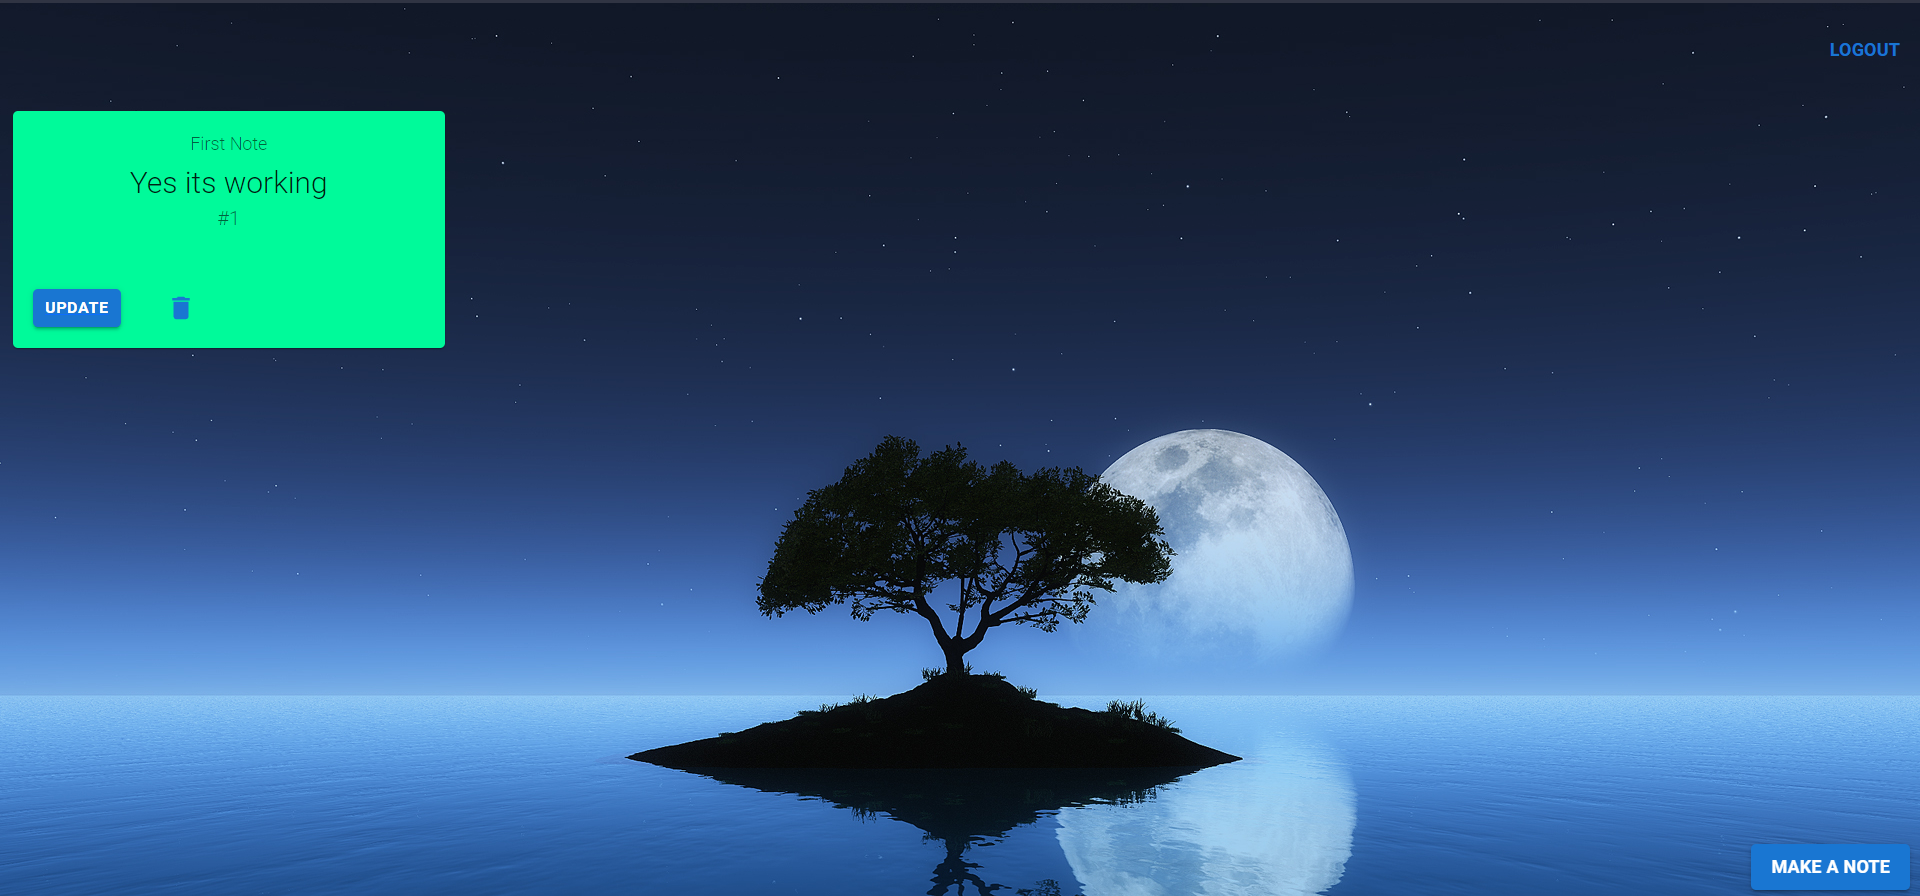
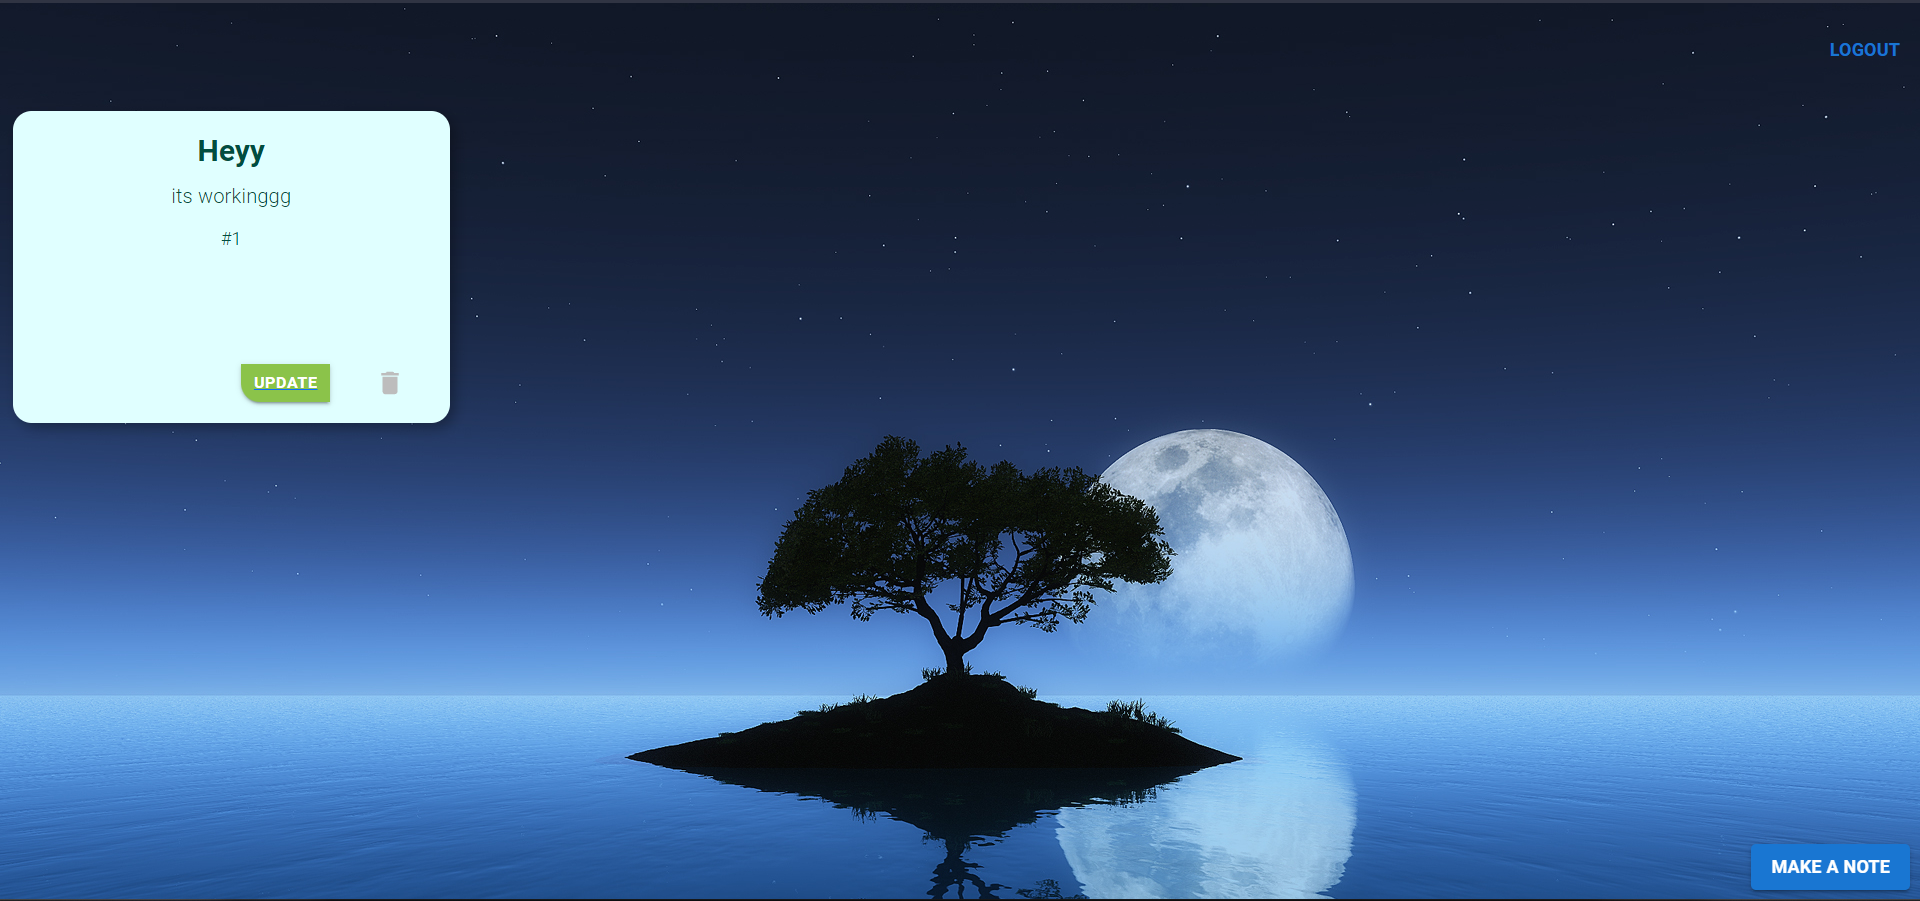
updated basic ui

diff --git a/src/components/Notes.js b/src/components/Notes.js
@@ -6,12 +6,11 @@ import { Link } from "react-router-dom";
 import Button from "@mui/material/Button";
 import Box from "@mui/material/Box";
 import { Navigate } from "react-router-dom";
-import CssBaseline from '@mui/material/CssBaseline';
-import Grid from '@mui/material/Grid';
+import CssBaseline from "@mui/material/CssBaseline";
+import Grid from "@mui/material/Grid";
 
 // let url = "https://inotebook123.herokuapp.com/get-notes/";
 let url = "http://127.0.0.1:8000/get-notes/";
-
 
 function Notes(props) {
   const token = localStorage.getItem("token");
@@ -28,7 +27,7 @@ function Notes(props) {
         setDats(res.data);
       })
       .catch((err) => console.log(err));
-    };
+  };
 
   useEffect(() => {
     getData();
@@ -43,65 +42,81 @@ function Notes(props) {
   if (isLoggedout) {
     return <Navigate to="/" />;
   }
- 
-  var style={backgroundImage: "url(/background.jpg)",
-  backgroundSize: "cover",
-  backgroundRepeat: "repeat-y"}
 
-  if(data.length < 9 && window.innerWidth > 900){
-    style = {backgroundImage: "url(/background.jpg)",
+  const backgroundImg = "/background.jpg";
+  const minHeight = data.length < 9 && window.innerWidth > 900 ? "100vh" : "auto";
+  const backgroundStyle = {
+    backgroundImage: `url(${backgroundImg})`,
     backgroundSize: "cover",
-    backgroundRepeat: "repeat-y",height: '100vh'}
-  }
+    backgroundRepeat: "repeat-y",
+    minHeight: minHeight,
+  };
 
   return (
-    <div style={style}>
+    <div style={backgroundStyle}>
       <CssBaseline />
       <Box sx={{ flexGrow: 1 }}>
-      <Box
-        sx={{
-          "& button": { m: 1 },
-          alignitem: "center",  
-          justifycontent: "center",
-        }}
-      >
-
-        <br></br>
-        <Button variant="text" onClick={logout} style={{ float: "right" , height: "10px" }}>
-          Logout
-        </Button>
-        <br></br>
-       <Grid container spacing={{ xs: 2, md: 3 }} columns={{ xs: 4, sm: 8, md: 12 }}>
-       
-          {data &&
-            data.map((element) => {
-              if (!data) return null;
-              else {
-                return (
-                  <Grid item xs sm={4} md={3} key={element.id}>
-                    <li
-                      className="list-group-item"
-                      style={{
-                        justifycontent: "center",
-                        margin: "10px",
-                        padding: "0px",
-                      }}
-                    >
-                      <Note2
-                        data={element}
-                        getdata={getData}
-                        token={props.token}
-                      />
-                    </li>
-                  </Grid>
-                );
-              }
-            })}
-      </Grid>
-        <Link to="/createnote">
-          <Button variant="contained" sx={{ position: 'fixed', bottom: 0, right: "0%" ,alignItems : "center"}} >Make a note</Button>
-        </Link>
-      </Box>
+        <Box
+          sx={{
+            "& button": { m: 1 },
+            alignItems: "center",
+            justifyContent: "center",
+          }}
+        >
+          <br />
+          <Button
+            variant="text"
+            onClick={logout}
+            style={{ float: "right", height: "10px" }}
+          >
+            Logout
+          </Button>
+          <br />
+          <Grid
+            container
+            spacing={{ xs: 2, md: 3 }}
+            columns={{ xs: 4, sm: 8, md: 12 }}
+            sx={{ marginTop: "40px", marginBottom: "40px" }}
+          >
+            {data &&
+              data.map((element) => {
+                if (!data) return null;
+                else {
+                  return (
+                    <Grid item xs sm={4} md={3} key={element.id}>
+                      <li
+                        className="list-group-item"
+                        style={{
+                          justifyContent: "center",
+                          margin: "10px",
+                          padding: "0px",
+                        }}
+                      >
+                        <Note2
+                          data={element}
+                          getdata={getData}
+                          token={props.token}
+                        />
+                      </li>
+                    </Grid>
+                  );
+                }
+              })}
+          </Grid>
+          <Link to="/createnote">
+            <Button
+              variant="contained"
+              sx={{
+                position: "fixed",
+                bottom: 0,
+                right: "0%",
+                alignItems: "center",
+              }}
+            >
+              Make a note
+            </Button>
+          </Link>
+        </Box>
       </Box>
     </div>
   );

diff --git a/src/components/Note2.js b/src/components/Note2.js
@@ -1,5 +1,4 @@
 import * as React from "react";
-// import Box from "@mui/material/Box";
 import Card from "@mui/material/Card";
 import CardActions from "@mui/material/CardActions";
 import CardContent from "@mui/material/CardContent";
@@ -8,7 +7,6 @@ import Typography from "@mui/material/Typography";
 import { Link } from "react-router-dom";
 import axios from "axios";
 import DeleteIcon from '@mui/icons-material/Delete';
-
 
 export default function BasicCard(props) {
   let url = `https://inotebook123.herokuapp.com/delete-notes/${props.data.id}/`;
@@ -31,26 +29,35 @@ export default function BasicCard(props) {
   };
 
   return (
-    <>
-    <Card sx={{   backgroundColor:"#00FA9A" }}>
+    <Card sx={{ 
+        width: 350, 
+        height: 250,
+        display: "flex",
+        flexDirection: "column",
+        justifyContent: "space-between",
+        backgroundColor: "#E0FFFF",
+        boxShadow: "4px 4px 10px rgba(0, 0, 0, 0.3)",
+        borderRadius: "15px",
+        overflow: "hidden",
+        position: "relative"
+      }}>
       <CardContent>
-        <Typography sx={{ fontSize: 14 }} color="text.secondary" gutterBottom>
+        <Typography variant="h5" component="div" gutterBottom sx={{ fontWeight: "bold", color: "#004D40" }}>
           {props.data.name}
         </Typography>
-        <Typography variant="h5" component="div">
+        <Typography variant="body1" sx={{ mb: 1.5, color: "#004D40" }}>
           {props.data.description}
         </Typography>
-        <Typography sx={{ mb: 1.5 }} color="text.secondary">
+        <Typography variant="body2" sx={{ color: "#004D40" }}>
           {props.data.tags}
         </Typography>
       </CardContent>
-      <CardActions>
+      <CardActions sx={{ position: "absolute", bottom: 0, right: 0 }}>
         <Link to={`/updatenote/${props.data.id}/`}>
-          <Button variant="contained" size="small">Update</Button>
+          <Button variant="contained" size="small" sx={{ borderRadius: "0 0 0 15px", backgroundColor: "#8BC34A", color: "white", textDecoration :false ,"&:hover": { backgroundColor: "#7CB342" , textDecoration :"none" } }}>Update</Button>
         </Link>
-        <Button  sx={{ mb: 0.5  , color : "grey"}} onClick={delData} size="small"><DeleteIcon /></Button>
+        <Button onClick={delData} size="small" sx={{ borderRadius: "0 0 15px 0", color: "#BDBDBD", "&:hover": { color: "#616161" } }}><DeleteIcon /></Button>
       </CardActions>
     </Card>
-    </>
   );
 }
